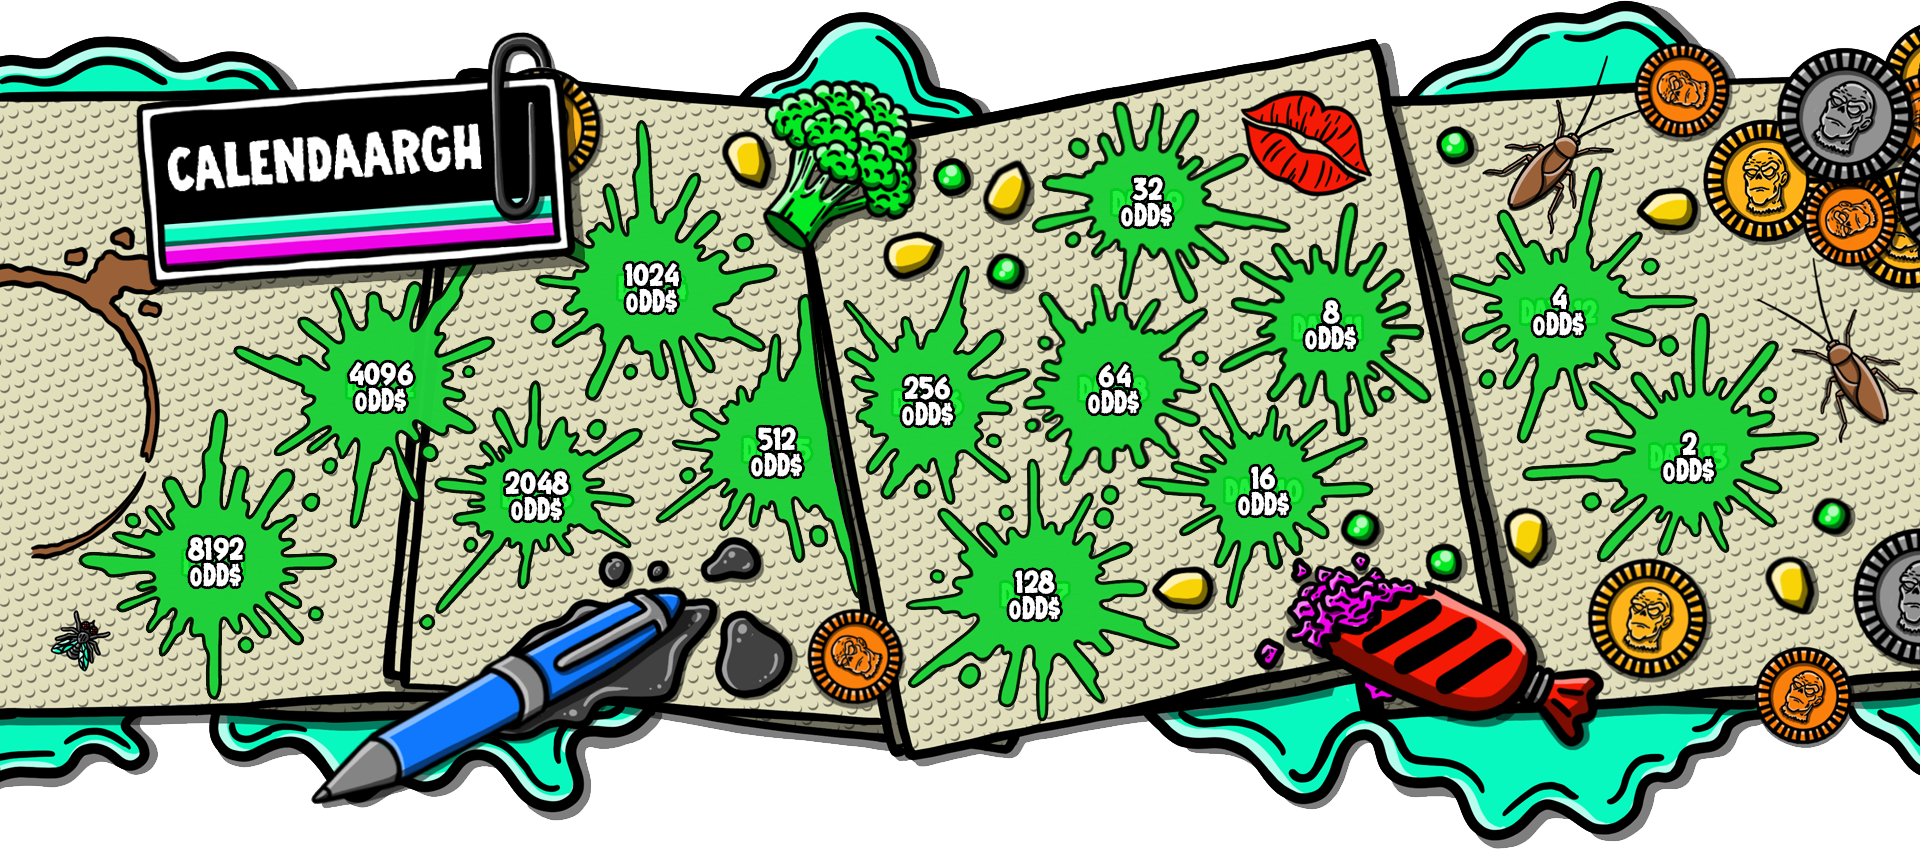
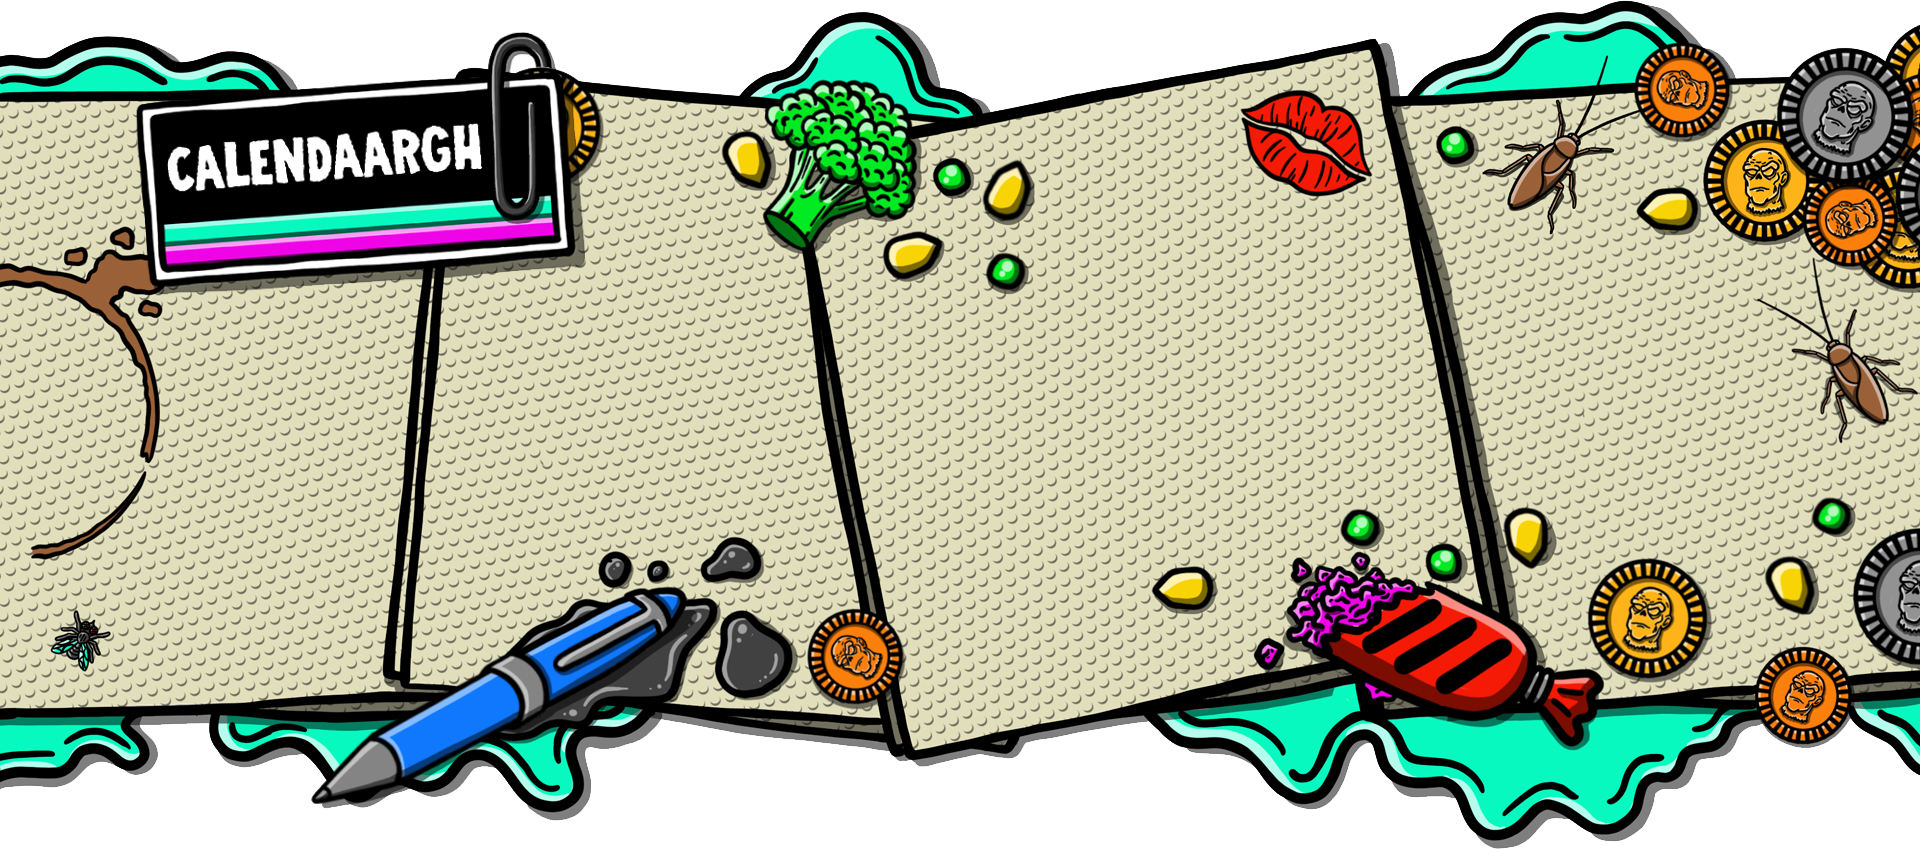
splat hover effect

Changed region(s): [[0.0312, 0.1225, 0.9688, 0.8575], [0.5, 0.3062, 0.5312, 0.3369]]

diff --git a/pages/components/section/about/Napkin.tsx b/pages/components/section/about/Napkin.tsx
@@ -3,10 +3,66 @@ import { useState, useEffect } from 'react'
 import Image from 'next/image';
 
 const Napkin: FC = () => {
+  const size = [
+    { w: 259, h: 291 },
+    { w: 262, h: 277 },
+    { w: 225, h: 251 },
+    { w: 269, h: 289 },
+    { w: 243, h: 306 },
+    { w: 188, h: 240 },
+    { w: 275, h: 264 },
+    { w: 190, h: 204 },
+    { w: 261, h: 204 },
+    { w: 237, h: 227 },
+    { w: 214, h: 245 },
+    { w: 254, h: 278 },
+    { w: 299, h: 251 },
+  ]
+
+  const pos = [
+    { x: 78, y: 409 },
+    { x: 233, y: 252 },
+    { x: 418, y: 380 },
+    { x: 509, y: 120 },
+    { x: 620, y: 294 },
+    { x: 843, y: 265 },
+    { x: 905, y: 458 },
+    { x: 1024, y: 295 },
+    { x: 1031, y: 101 },
+    { x: 1137, y: 382 },
+    { x: 1218, y: 202 },
+    { x: 1450, y: 166 },
+    { x: 1521, y: 312 },
+  ]
+
+  const relativeVw = (intrinsicSize: number) => {
+    return (intrinsicSize / 1920 * 100).toString() + "vw";
+  }
 
   return (
     <div id='napkin' className='relative w-full'>
       <img src='Napkin.png' alt="napkin" className='w-full'/>
+      <div>
+        {pos.map((p, i) => (
+          <>
+            <img
+              src={`/napkin/splat_${i + 1}_hover.png`}
+              className='absolute'
+              style={{ left: relativeVw(p.x), top: relativeVw(p.y), width: relativeVw(size[i].w) }}
+              key={`splat-${i}-hover`}
+            />
+            <div className='absolute hover:hidden' style={{ left: relativeVw(p.x + size[i].w / 4), top: relativeVw(p.y + size[i].h / 4), width: relativeVw(size[i].w /2), height: relativeVw(size[i].h / 2) }}>
+              <div className='relative pointer-events-none' style={{ left: '-50%', top: '-50%', width: relativeVw(size[i].w), height: relativeVw(size[i].h) }}>
+                <img
+                  src={`/napkin/splat_${i + 1}.png`}
+                  className='absolute'
+                  key={`splat-${i}`}
+                />
+              </div>
+            </div>
+          </>
+        ))}
+      </div>
     </div>
   )
 }
